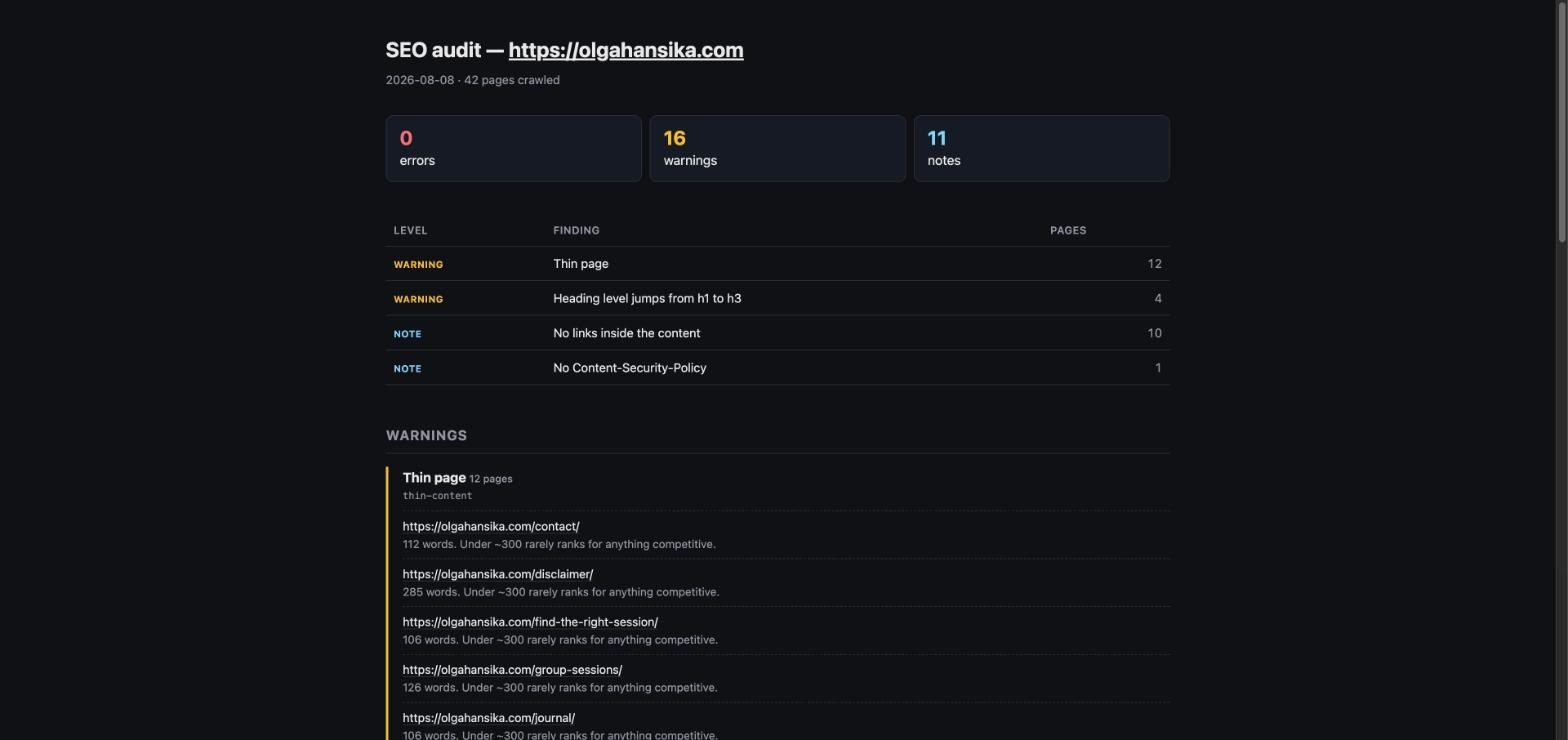
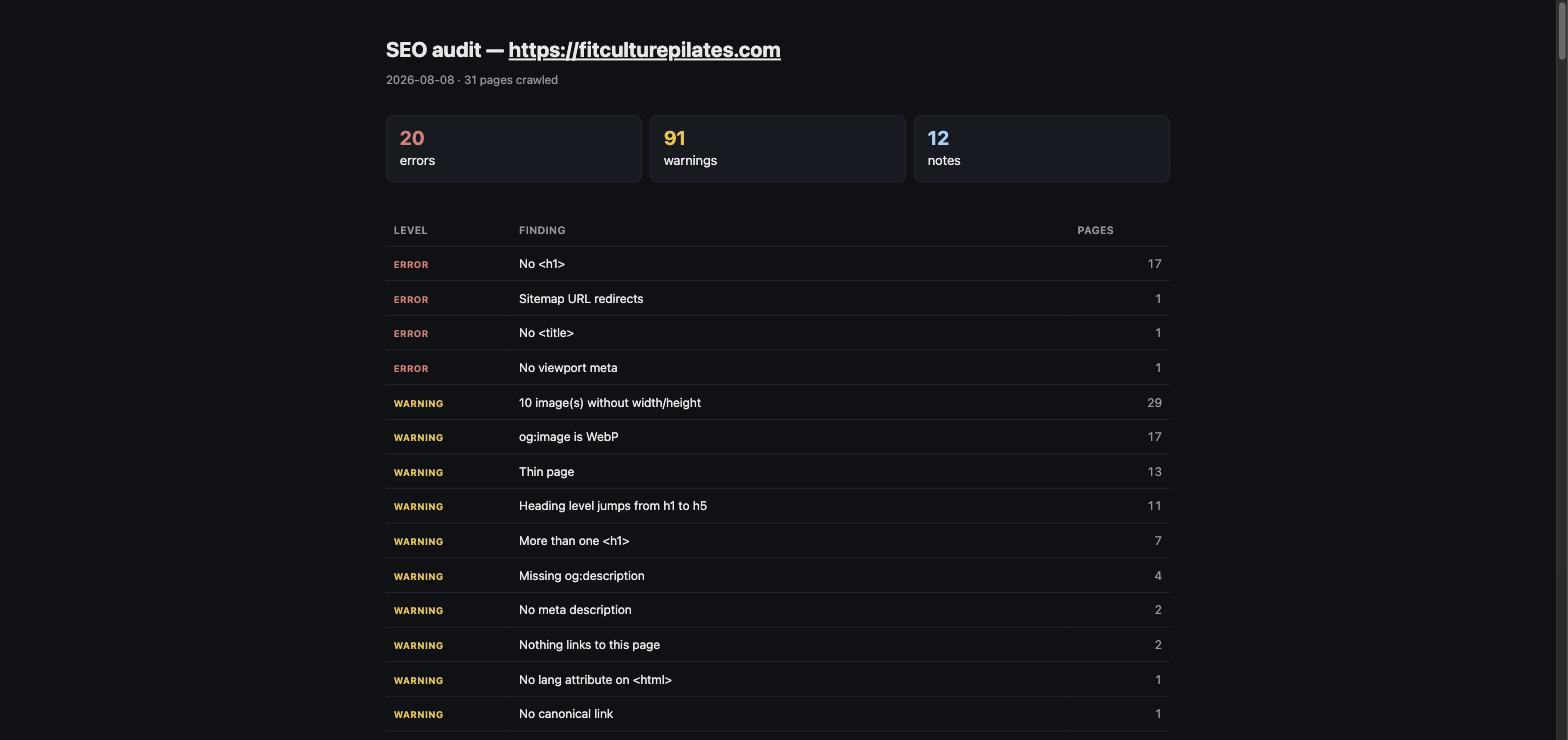
Use a different site in the README visuals and the self-check
A client's URL should not be the demo in a public repository. The report
screenshot and the terminal render now come from a site chosen for the
purpose, and the self-check workflow points there too.

The new screenshot is also a better demonstration: 20 errors and 91 warnings
across 31 pages, including 17 pages with no h1 at all and a sitemap URL that
redirects. Both verified by hand before publishing them as marketing — the
h1s really are absent, and the .kml the server returns as text/html really
is listed as a page.

diff --git a/CLAUDE.md b/CLAUDE.md
@@ -77,8 +77,11 @@ key, and never paste one into an issue or a report.
 
 ## Context
 
-Written for a bilingual EN/RU Astro site (olgahansika.com) after three
-commercial graders all reported the homepage as healthy while the language
-switcher on every translated article linked to a 404. That bug is the
-tool's reason to exist; keep it in mind when weighing whether a proposed
-check is worth the noise it will make.
+Written after three commercial graders all reported a client site's homepage
+as healthy while the language switcher on every translated article linked to
+a 404 — a bug none of them could see, because it was only wrong on pages they
+never opened. That is the tool's reason to exist; keep it in mind when
+weighing whether a proposed check is worth the noise it will make.
+
+Client URLs do not belong in this repository. The example in the README and
+the self-check workflow point at sites chosen for that purpose.
